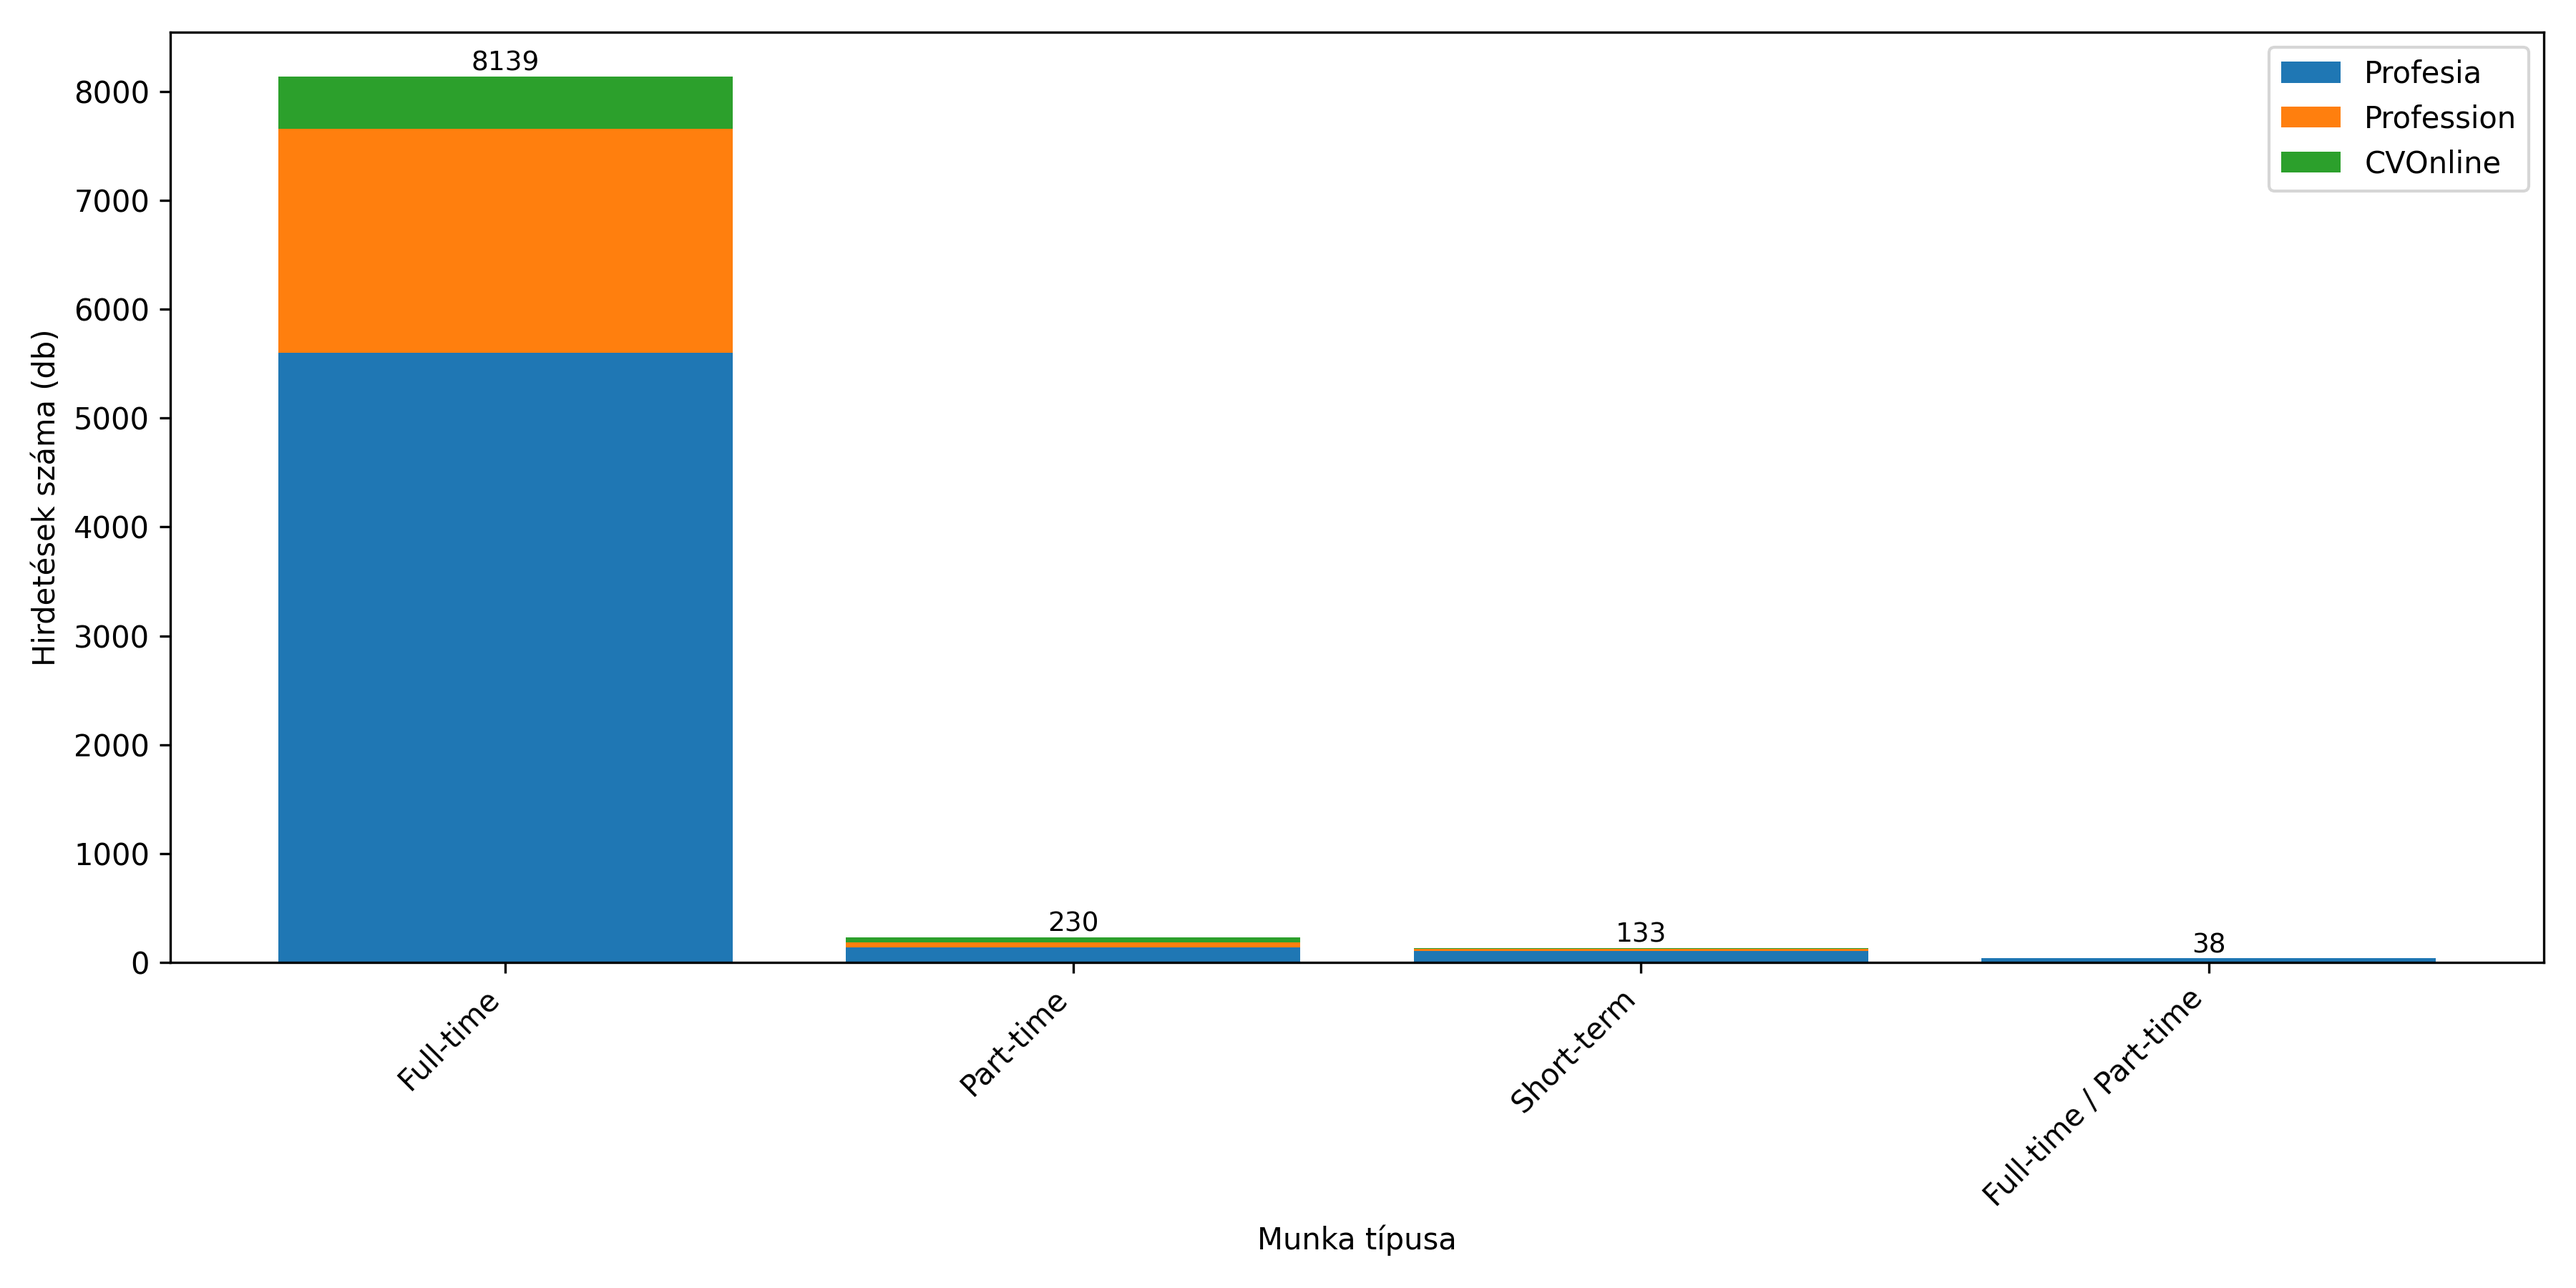
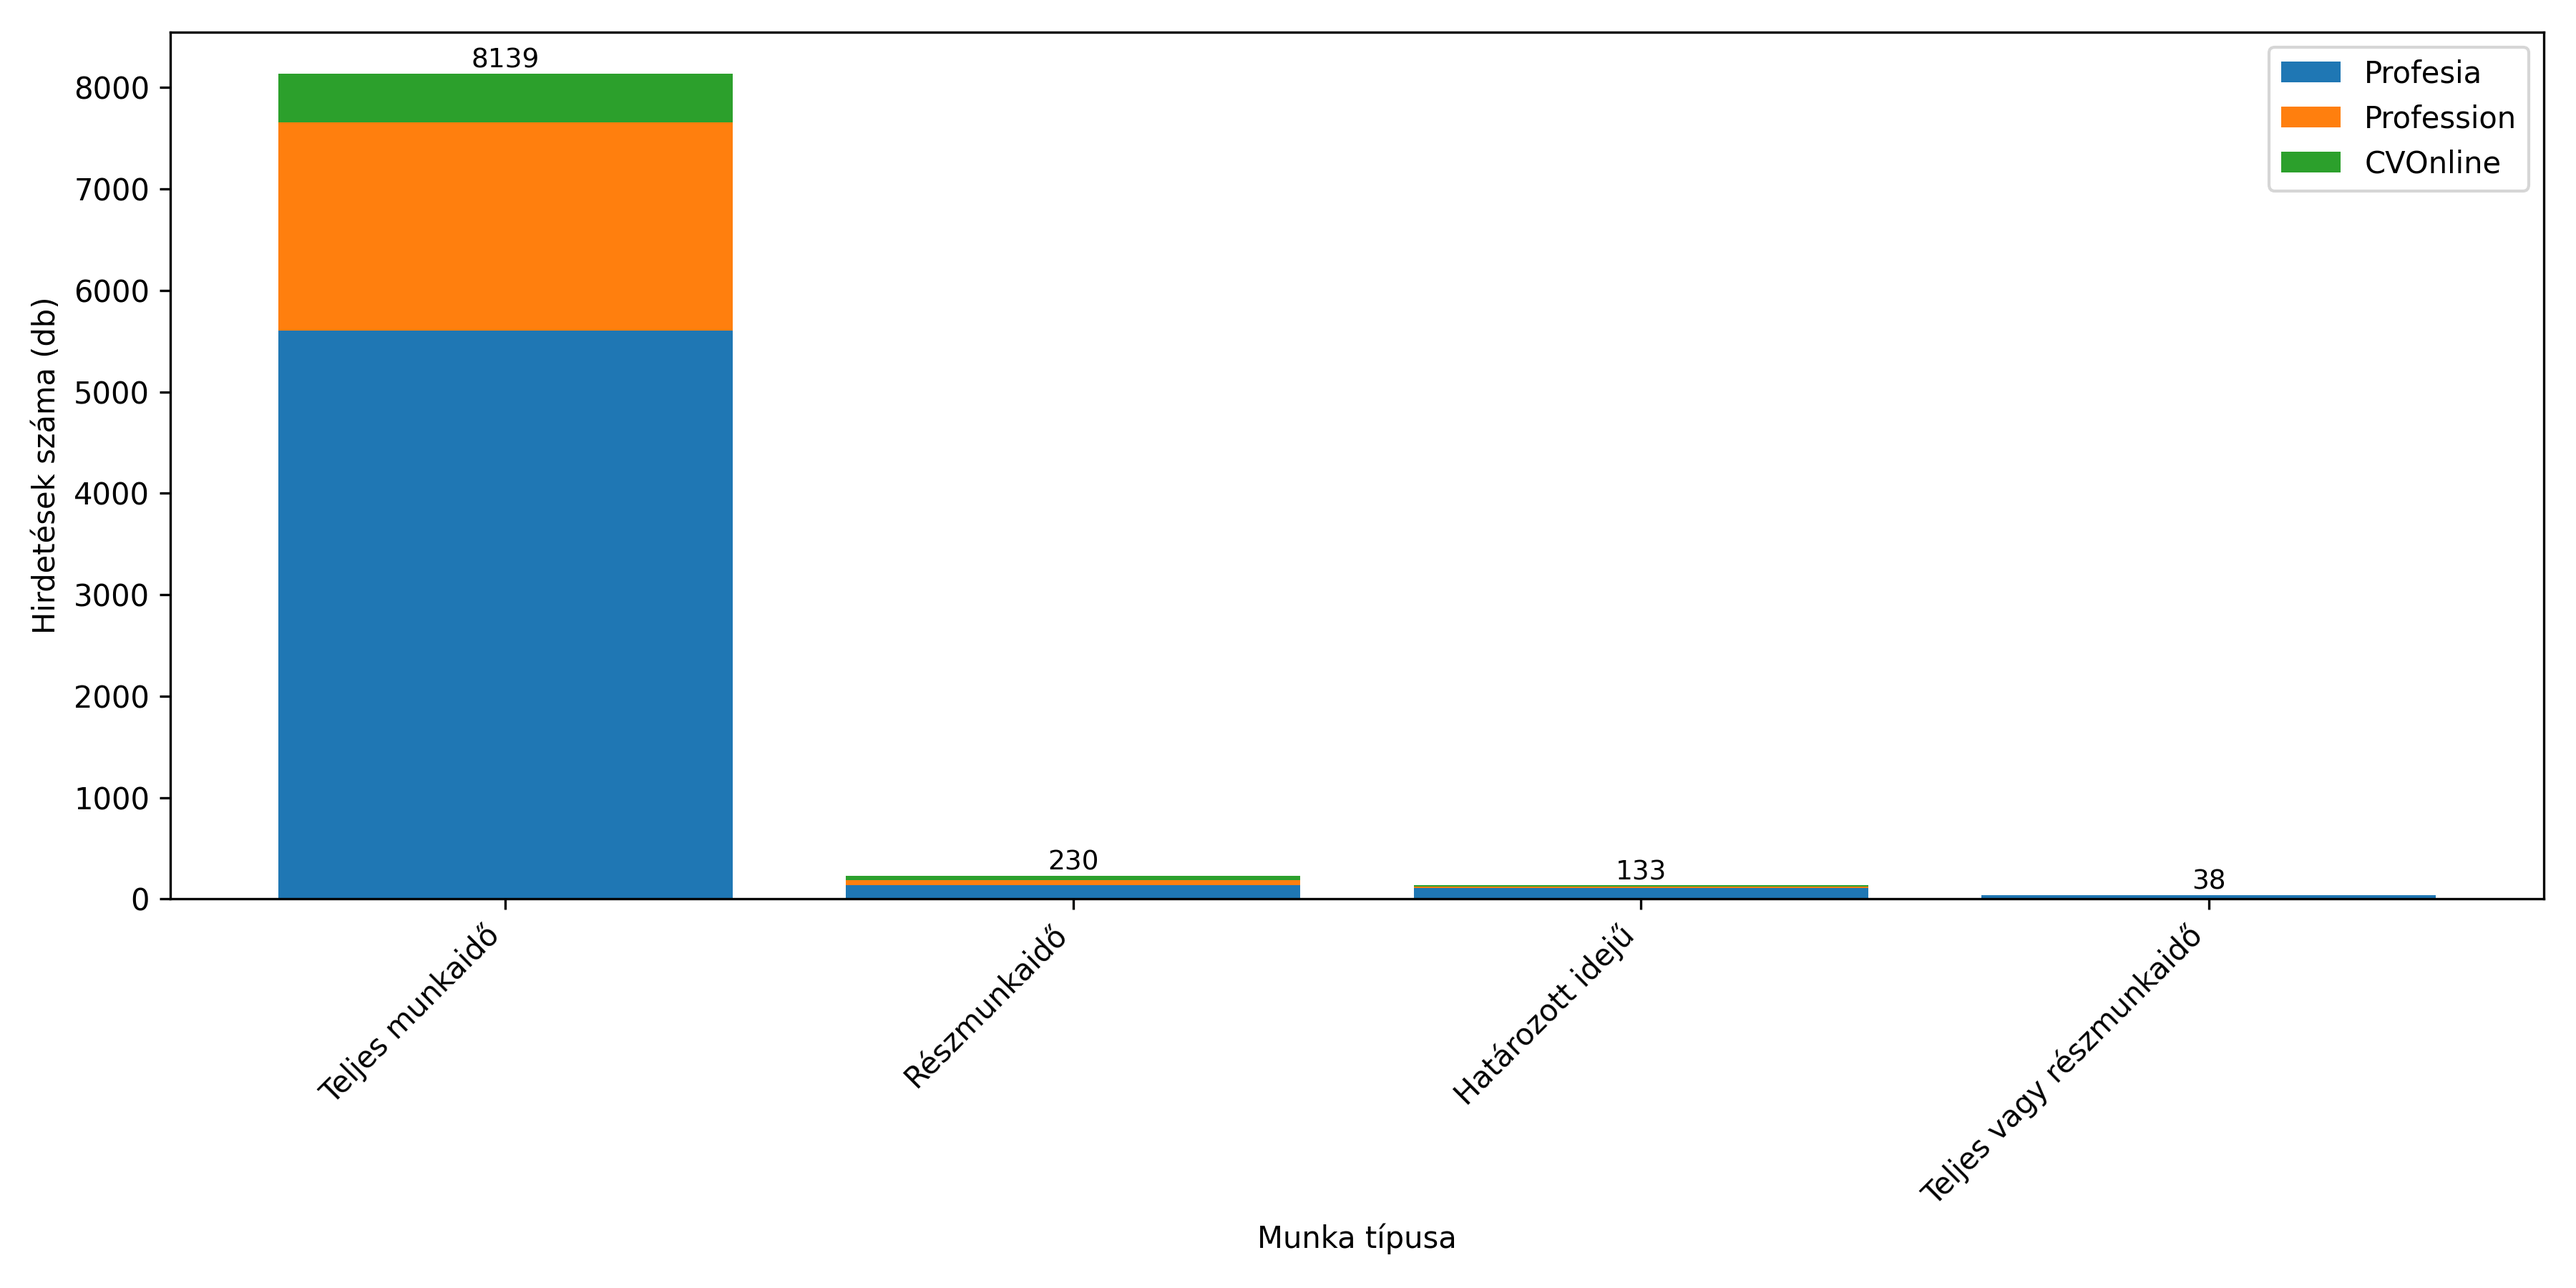
V2.2

diff --git a/Analyze/Analyzer.py b/Analyze/Analyzer.py
@@ -200,7 +200,7 @@ def normalize_experience(value):
     lower = value.lower()
 
     if lower in ["not specified", "nan"]:
-        return "Not specified"
+        return "Nincs megadva"
 
     if "junior" in lower:
         return "Junior"
@@ -210,76 +210,75 @@ def normalize_experience(value):
         return "Senior"
 
     if lower in ["0-1 years"]:
-        return "Junior 0-1 years"
+        return "Junior 0-1 év"
 
     if lower in ["1-3 years", "2", "2 years", "2+ years", "2-3 years", "2-4 years", "2-5 years", "3+ years", "3-5 years", "4+ years", "4-7 years"]:
-        return "Medior 1-5 years"
+        return "Medior 1-5 év"
 
     if lower in ["5+ years", "5-7 years", "8-10 years", "7+ years", "7-10+ years", "10+ years", "8-12 years", "8+ years", "5-10 years"]:
-        return "Senior 5-10+ years"
+        return "Senior 5-10+ év"
 
     return value
 
 
 def normalize_work_arrangement(value):
     if pd.isna(value) or str(value).strip() == "":
-        return "Not specified"
+        return "Nincs megadva"
 
     value = str(value).strip()
     lower = value.lower()
 
     if "remote" in lower or "home-office" in lower or "home office" in lower or "práca z domu" in lower:
-        return "Remote"
+        return "Távoli munkavégzés"
 
     if "on-site with home office" in lower:
-        return "Hybrid"
+        return "Hibrid munkavégzés"
 
     if "hybrid" in lower:
-        return "Hybrid"
+        return "Hibrid munkavégzés"
 
     if "on-site" in lower:
-        return "On-site"
+        return "Helyszíni munkavégzés"
 
     if "remote-first" in lower:
-        return "Remote"
+        return "Távoli munkavégzés"
 
     if "full remote" in lower:
-        return "Remote"
+        return "Távoli munkavégzés"
 
     if lower == "full-time":
-        return "Not specified"
+        return "Nincs megadva"
 
     return value
 
 
 def normalize_job_type(value):
     if pd.isna(value) or str(value).strip() == "":
-        return "Not specified"
+        return "Nincs megadva"
 
     value = str(value).strip()
     lower = value.lower()
 
     if lower in ["full-time", "plný úväzok"]:
-        return "Full-time"
+        return "Teljes munkaidő"
 
-    if lower in ["half-time", "part-time", "part time", "part-time"]:
-        return "Part-time"
+    if lower in ["half-time", "part-time", "part time"]:
+        return "Részmunkaidő"
 
     if "short-term" in lower:
-        return "Short-term"
+        return "Határozott idejű"
 
-    if "full-time" in lower and "half-time" in lower:
-        return "Full-time / Part-time"
+    if "full-time" in lower and ("half-time" in lower or "part-time" in lower):
+        return "Teljes vagy részmunkaidő"
 
     if "full-time" in lower and "short-term" in lower:
-        return "Full-time / Short-term"
+        return "Teljes munkaidő / határozott idejű"
 
     return value
 
-
 def normalize_location(value):
     if pd.isna(value) or str(value).strip() == "":
-        return "Not specified"
+        return "Nincs megadva"
 
     value = str(value).strip()
     lower = value.lower()
@@ -355,10 +354,10 @@ locations.to_csv(os.path.join(output_dir, "all_locations.csv"), index=False, enc
 # Grafikonok
 make_stacked_chart(programming_languages, "Programming Language", "Programozási és leíró nyelvek", "all_programming_languages.png", 20)
 make_stacked_chart(tools, "Tool / Technology", "Eszközök és technológiák", "all_tools.png", 20)
-make_stacked_chart(language_requirements, "Language", "Nyelvi követelmények", "all_human_languages.png", 6)
-make_stacked_chart(experience_levels, "Experience Level", "Experience level", "all_experience_levels.png", 4)
+make_stacked_chart(language_requirements, "Language", "Elvárt nyelvismeret", "all_human_languages.png", 6)
+make_stacked_chart(experience_levels, "Experience Level", "Munkatapasztalat", "all_experience_levels.png", 4)
 make_stacked_chart(work_arrangements, "Work Arrangement", "Munkavégzés módja", "all_work_arrangement.png", 4)
 make_stacked_chart(job_types, "Job Type", "Munka típusa", "all_job_types.png", 4)
-make_stacked_chart(locations, "Location", "Helyszín", "all_locations.png", 15)
+make_stacked_chart(locations, "Location", "Munkavégzés helye", "all_locations.png", 15)
 
 print("Kész. Mentve az Analyzed mappába")
